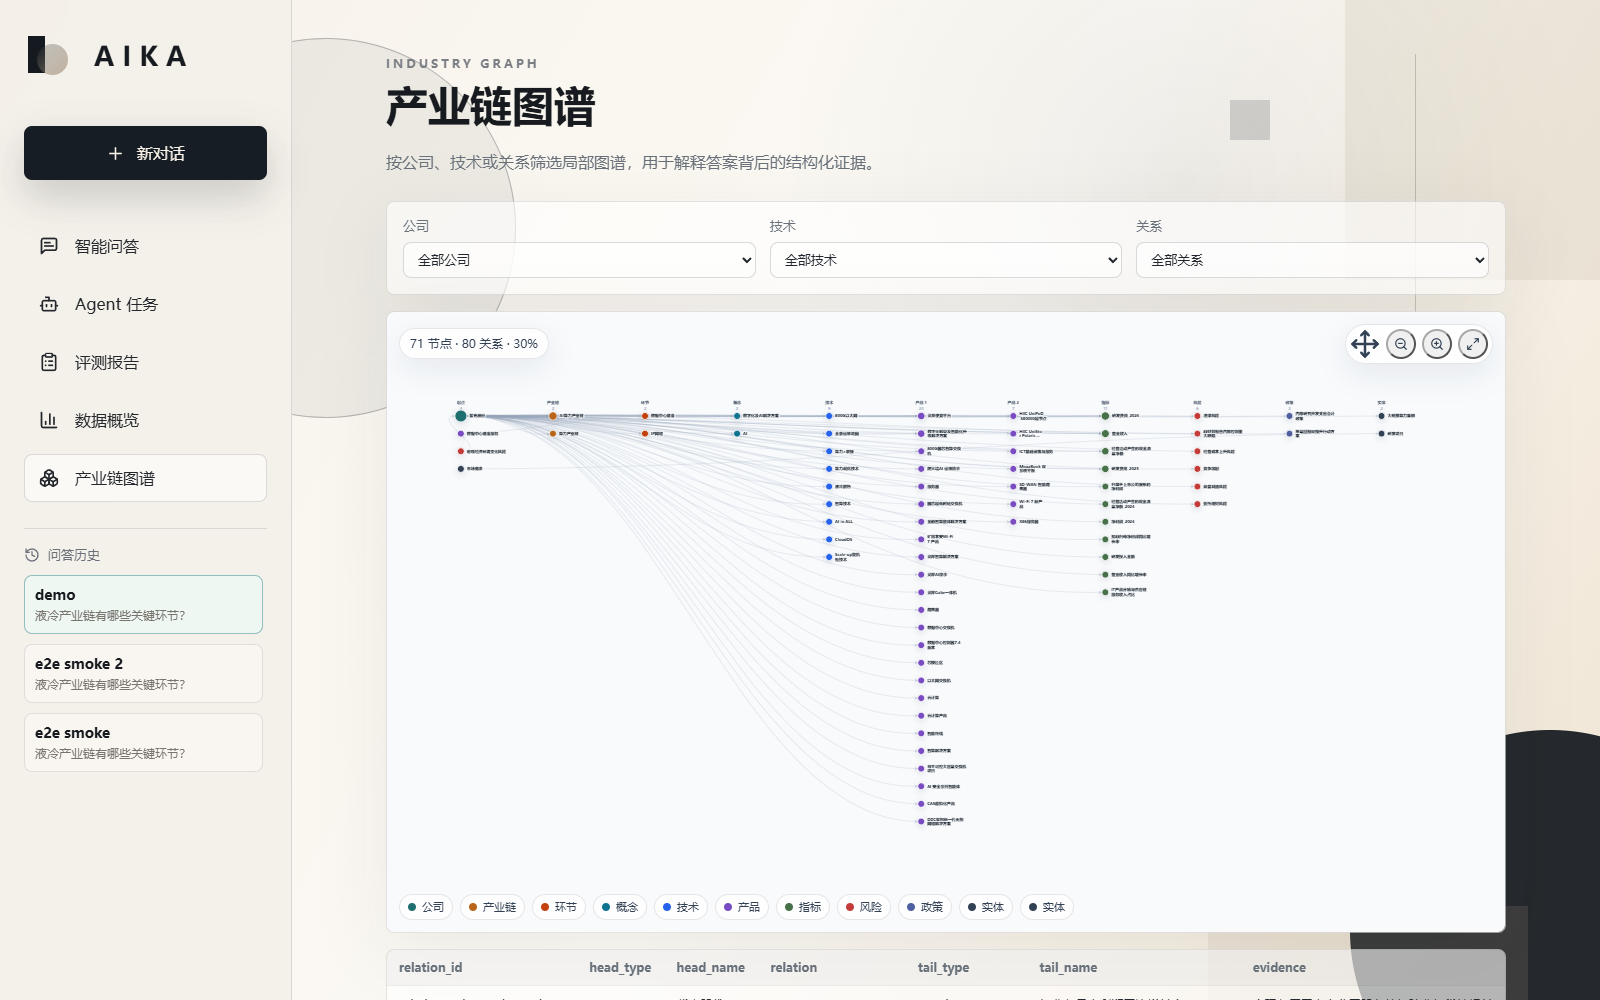
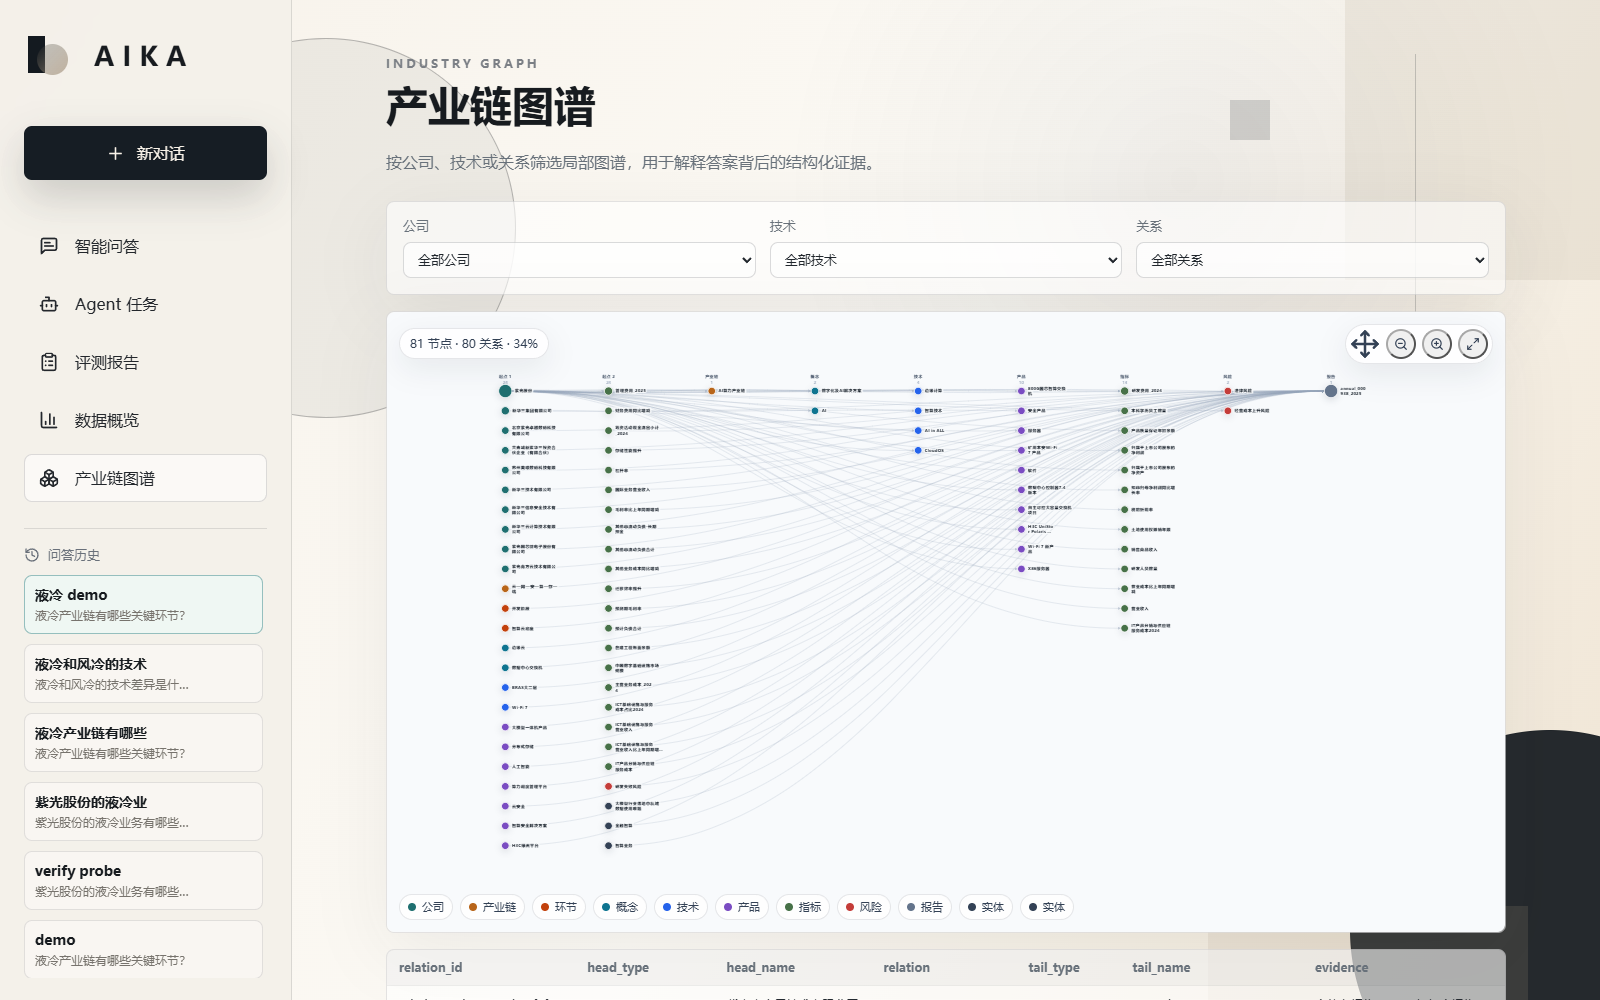
fix(P1): load the full knowledge graph instead of the distilled subset
Both the web API and QAEngine defaulted KG_DATA_DIR to data/curated, which is a
distilled subset holding 285 entities and exactly one Company, while data/verified
holds 768 entities and 48 companies. The rich graph was never loaded, so the UI
showed a one-company industry graph.

The directory is now resolved in one place (aika_core.data_paths.resolve_graph_dir),
which prefers the full graph and falls back to the subset.

Also documents the whole reproduction in REPRODUCTION.md, including the two
environment workarounds this machine needs.

Graph page: 71 nodes / 1 company -> 81 nodes / 48 companies

diff --git a/aika/aika_core/data_paths.py b/aika/aika_core/data_paths.py
@@ -27,3 +27,25 @@ DEFAULT_RELATIONS_CSV = DEFAULT_CURATED_DIR / RELATIONS_FILE
 
 def resolve_data_dir(data_dir: str | Path | None = None) -> Path:
     return Path(data_dir).expanduser().resolve() if data_dir else DEFAULT_CURATED_DIR
+
+
+def has_graph(directory: Path) -> bool:
+    return (directory / ENTITIES_FILE).exists() and (directory / RELATIONS_FILE).exists()
+
+
+def resolve_graph_dir(value: str | Path | None = None) -> Path:
+    """Resolve the directory the knowledge graph is read from.
+
+    `data/curated` and `data/verified` both contain an entities/relations pair, but they
+    are different artefacts: `curated` is a distilled subset (285 entities / 1 company in
+    the current snapshot) while `verified` is the full graph built from source documents
+    (768 entities / 48 companies). Both the web API and the QA engine used to default to
+    `curated`, so the application ran on the distilled subset and the rich graph was
+    never loaded. The rich graph wins whenever it exists.
+    """
+    if value:
+        return Path(value).expanduser().resolve()
+    for candidate in (DEFAULT_VERIFIED_DIR, DEFAULT_CURATED_DIR):
+        if has_graph(candidate):
+            return candidate
+    return DEFAULT_CURATED_DIR

diff --git a/aika/qa_engine.py b/aika/qa_engine.py
@@ -31,6 +31,7 @@ from pathlib import Path
 from typing import Any
 
 from aika.cypher_generator import GeneratedCypher, generate_cypher
+from aika.aika_core.data_paths import resolve_graph_dir
 from aika.curated_graph import DEFAULT_CURATED_DIR
 from aika.extraction_schema import normalize_name
 from aika.frontend_data import LocalKnowledgeGraph, RELATION_LABELS, subgraph_edges
@@ -428,9 +429,7 @@ class QAEngine:
         # CSV 图谱
         csv_graph = None
         graph_error = ""
-        graph_data_dir = Path(os.getenv("KG_DATA_DIR", str(DEFAULT_CURATED_DIR)))
-        if not (graph_data_dir / "entities.csv").exists() or not (graph_data_dir / "relations.csv").exists():
-            graph_data_dir = Path(__file__).resolve().parents[1] / "data" / "verified"
+        graph_data_dir = resolve_graph_dir(os.getenv("KG_DATA_DIR"))
         try:
             csv_graph = LocalKnowledgeGraph.from_dir(graph_data_dir)
         except Exception as exc:

diff --git a/aika/api.py b/aika/api.py
@@ -22,6 +22,7 @@ from aika.conversation_store import (
     InvalidConversationError,
     now_iso,
 )
+from aika.aika_core.data_paths import has_graph, resolve_graph_dir
 from aika.curated_graph import DEFAULT_CURATED_DIR
 from aika.eval.feedback import FeedbackStore, InvalidFeedbackError
 from aika.eval.store import EvalRunNotFoundError, EvalRunStore, InvalidEvalRunError
@@ -155,8 +156,8 @@ def _cached_qa_engine() -> QAEngine:
 
 @lru_cache(maxsize=1)
 def _cached_knowledge_graph() -> LocalKnowledgeGraph:
-    data_dir = Path(os.getenv("KG_DATA_DIR", str(DEFAULT_CURATED_DIR)))
-    if not (data_dir / "entities.csv").exists() or not (data_dir / "relations.csv").exists():
+    data_dir = resolve_graph_dir(os.getenv("KG_DATA_DIR"))
+    if not has_graph(data_dir):
         return LocalKnowledgeGraph.from_csvs()
     return LocalKnowledgeGraph.from_dir(data_dir)
 

diff --git a/REPRODUCTION.md b/REPRODUCTION.md
@@ -1,0 +1,205 @@
+# 复现手册（Windows 实测通过）
+
+> 本文件记录「从零到看见成果」的每一步，全部命令均在本机（Windows 11 / Python 3.13 / Node 24）实测通过。
+> 记录时间：2026-10-25。测试结果：**248 passed, 1 skipped**。
+
+---
+
+## 0. 一句话结论
+
+项目能在 Windows 上跑起来，但**开箱即崩**：原始代码有 5 个只在 Windows 暴露的缺陷（详见 §6），
+修完之后 `pytest` 全绿、`aika demo` 有输出、FastAPI + React 前端能端到端问答并出证据卡片。
+
+---
+
+## 1. 环境要求
+
+| 组件 | 版本 | 备注 |
+|---|---|---|
+| Python | 3.13.14 | 项目声明 `>=3.11`，`.python-version` 写的是 3.11 |
+| Node.js | 24.18.0 | 前端构建 |
+| 浏览器 | Chrome / Edge | 截图用，非必需 |
+
+---
+
+## 2. 安装依赖（含两个必须的绕行）
+
+### 2.1 临时目录需要"可写模式"补丁
+
+本机 `%TEMP%` 下的目录 ACL 很严，而 `tempfile.mkdtemp()` 建目录用的是 `0o700`，
+于是 pip / venv / pytest 往临时目录里写文件时全部 `PermissionError`。
+建一个 `sitecustomize` 把 `os.mkdir` 的默认 mode 改成 `0o777` 即可绕开：
+
+```powershell
+# .tmp/pyshim/sitecustomize.py
+$shim = @'
+from __future__ import annotations
+import os
+_orig_mkdir = os.mkdir
+def _mkdir_mode_777(path, mode=0o777, *args, **kwargs):
+    return _orig_mkdir(path, 0o777, *args, **kwargs)
+os.mkdir = _mkdir_mode_777
+'@
+New-Item -ItemType Directory -Force -Path .tmp\pyshim | Out-Null
+Set-Content -Path .tmp\pyshim\sitecustomize.py -Value $shim -Encoding utf8
+$env:PYTHONPATH = "$PWD\.tmp\pyshim"
+```
+
+> 这不是项目的问题，是本机沙箱的问题。换一台干净的机器可以跳过。
+
+### 2.2 建虚拟环境
+
+```powershell
+python -m venv .venv
+# ensurepip 在同款环境下会失败，补跑一次即可
+.\.venv\Scripts\python.exe -m ensurepip --upgrade --default-pip
+```
+
+### 2.3 装依赖
+
+`jieba` 只有 sdist，构建隔离模式在建 wheel 时会崩，所以关掉构建隔离，
+并先把构建后端装好：
+
+```powershell
+$env:PIP_CACHE_DIR = "$PWD\.tmp\pipcache"     # 默认缓存目录同样被拒
+.\.venv\Scripts\python.exe -m pip install --no-build-isolation hatchling editables setuptools wheel
+.\.venv\Scripts\python.exe -m pip install --no-build-isolation --no-cache-dir -e ".[dev]"
+```
+
+前端依赖：
+
+```powershell
+cd web
+$env:npm_config_cache = "$PWD\..\.tmp\npmcache"
+cmd /c "npm install --no-audit --no-fund"
+cd ..
+```
+
+---
+
+## 3. 跑测试
+
+```powershell
+$env:PYTHONPATH = "$PWD\.tmp\pyshim"
+.\.venv\Scripts\python.exe -m pytest -q
+```
+
+```
+248 passed, 1 skipped in 8.87s
+```
+
+`tests/conftest.py` 会把 pytest 的 `basetemp` 固定到仓库内的 `.tmp/pytest`，
+避免 `tmp_path` 再撞上 `%TEMP%` 的权限问题。
+
+---
+
+## 4. 跑公开主线（MCP + SQLite，不依赖数据库）
+
+```powershell
+$env:AIKA_HOME = "$PWD\.tmp\aikahome"      # 索引与知识库放仓库内，避免写用户目录
+.\.venv\Scripts\aika.exe init --sample
+.\.venv\Scripts\aika.exe build-index
+.\.venv\Scripts\aika.exe demo
+```
+
+实测输出：
+
+```
+AIKA home: D:\demo\AIChainQASysterm-main\.tmp\aikahome
+Sample knowledge: D:\demo\AIChainQASysterm-main\.tmp\aikahome\knowledge\sample
+Built SQLite index: D:\demo\AIChainQASysterm-main\.tmp\aikahome\indexes\sample.sqlite
+Counts: claims=160, evidence_spans=160, dossiers=5, relations=85
+
+AIKA local demo
+Query: 液冷产业链
+Evidence cards: 3
+Claims: 3
+Top evidence: [E1] UCIe 2.0 Specification ...
+Top claim: bottleneck / 液冷
+Brief title: 液冷产业链证据覆盖审计报告
+```
+
+其它可用子命令：`doctor`、`search-evidence`、`search-claims`、`validate-data`、`skill`、`mcp`。
+
+---
+
+## 5. 跑 Web（可选查看器）
+
+两个终端：
+
+```powershell
+# 终端 1：后端
+$env:QA_DISABLE_POSTGRES = "true"
+$env:AIKA_HOME = "$PWD\.tmp\aikahome"
+.\.venv\Scripts\python.exe -m uvicorn aika.api:app --host 127.0.0.1 --port 8000
+```
+
+```powershell
+# 终端 2：前端
+cd web
+$env:npm_config_cache = "$PWD\..\.tmp\npmcache"
+cmd /c "npm run dev"
+```
+
+打开 <http://localhost:5173/>。
+
+**端到端实测**（无 LLM Key 也能出答案，走的是图谱 + 规则兜底路径）：
+
+- 提问「液冷产业链有哪些关键环节？」→ `answer_type=thematic_research`、6 张证据卡、14 条图记录、答案 578 字
+- 提问「紫光股份的液冷业务有哪些风险？」→ `answer_type=risk_analysis`、验证态 `pass`
+- 产业链图谱页：**81 节点 / 80 关系 / 48 家公司**（修复前只有 71 节点 / 1 家公司）
+
+截图见 `docs/screenshots/`：
+
+| 文件 | 内容 |
+|---|---|
+| `01-home.png` | 首屏 |
+| `02-answer.png` | 问答结果 + 证据编号 [E1]–[E6] + 证据缺口 |
+| `03-graph.png` | 产业链图谱（可见"实体"图例重复 = 已知缺陷） |
+| `04-overview.png` | 数据概览 |
+
+### 想接真实大模型
+
+复制 `.env.example` 为 `.env`，填 DeepSeek 的 Key 即可（默认端点已经是 OpenAI 兼容格式）：
+
+```
+LLM_API_KEY=sk-xxxx
+LLM_BASE_URL=https://api.deepseek.com/v1
+LLM_MODEL=deepseek-chat
+```
+
+没有 Key 时 `llm_enabled=false`，答案只由图谱与规则生成 —— 能跑通链路，但写不出分析性文字。
+
+---
+
+## 6. 原始代码在 Windows 上的 5 个缺陷（已修）
+
+| # | 位置 | 症状 | 根因 |
+|---|---|---|---|
+| W1 | `aika/aika_core/backends/sqlite_backend.py` `build_sqlite_index` | `aika build-index` 报 `PermissionError: [WinError 32] ... .sample.sqlite.282832.tmp -> sample.sqlite`，6 个测试连带失败 | `with sqlite3.connect(...)` 只管事务不管文件句柄，句柄没关，Windows 不允许 rename 打开的文件 |
+| W2 | `aika/aika_mcp/host_configs.py` | 生成的 MCP 配置里 `command` 变成 `D:\usr\bin\uv` | `Path("/usr/bin/uv").resolve()` 在 Windows 上会把 POSIX 绝对路径改写成本地盘符路径 |
+| W3 | `aika/aika_mcp/host_configs.py:18` | 生成的配置写入 `UV_CACHE_DIR=/tmp/uv-cache` | 硬编码 POSIX 临时目录 |
+| W4 | `aika/aika_mcp/doctor.py:155,164`、`aika/aika_cli.py:589` | 提示文案让用户去设置 `/tmp/...` | 同上 |
+| W5 | `tests/test_aika_core.py` | `query_graph` 断言失败，返回 `[]` | 测试硬编码 `中际旭创`，但 `data/curated` 里根本没有这家公司（整张图只有 1 家 Company） |
+
+另外修了一处"日期炸弹"：`tests/test_report_charts.py` 用 `published_at="2025"` 断言新鲜度为 fresh，
+而新鲜窗口是 18 个月 —— 2026 年 10 月跑必然失败。现在 `build_company_coverage_heatmap` 接受 `today` 参数，
+测试注入固定日期。
+
+---
+
+## 7. 已知问题（尚未修，属于重构阶段 P2+ 的范围）
+
+1. **curated 图只有 1 家公司**（紫光股份），`data/verified` 有 48 家。
+   已修：图谱目录现在由 `aika_core/data_paths.resolve_graph_dir()` 统一解析，优先用 rich 的
+   `data/verified`，找不到才退回 `data/curated`（API 与 QA 引擎共用同一个函数）。
+   仍存在的隐患：`data/curated` 里那份退化图没有任何代码删除或标注，容易再次被误用。
+2. **`data/curated` 里的 claims / evidence_spans / dossiers 重建不出来**：
+   两个生成脚本都硬传 `write_outputs=False` 并强制连 PostgreSQL。所以这 592 KB 是"文物"，改不动。
+3. **主题研究类问题验证恒为 fail**：`risk_support` 检查在 `thematic_research` 分支下必然失败，
+   `risk_analysis` 分支正常。前端会显示"验证未通过"，容易误导。
+4. **图谱图例里"实体"重复出现两次**：后端 18 类实体 vs 前端 11 类映射，多出来的类别全掉进同一个 fallback 样式。
+5. **`aika eval` 从安装入口不可达**，评测页永远是空态。
+6. 无 LLM Key 时答案质量有限（只能堆证据，不能做推理）。
+
+这些问题、以及对应的重构顺序与验收标准，都写在 [REFACTOR_PLAN.md](REFACTOR_PLAN.md) 里。
